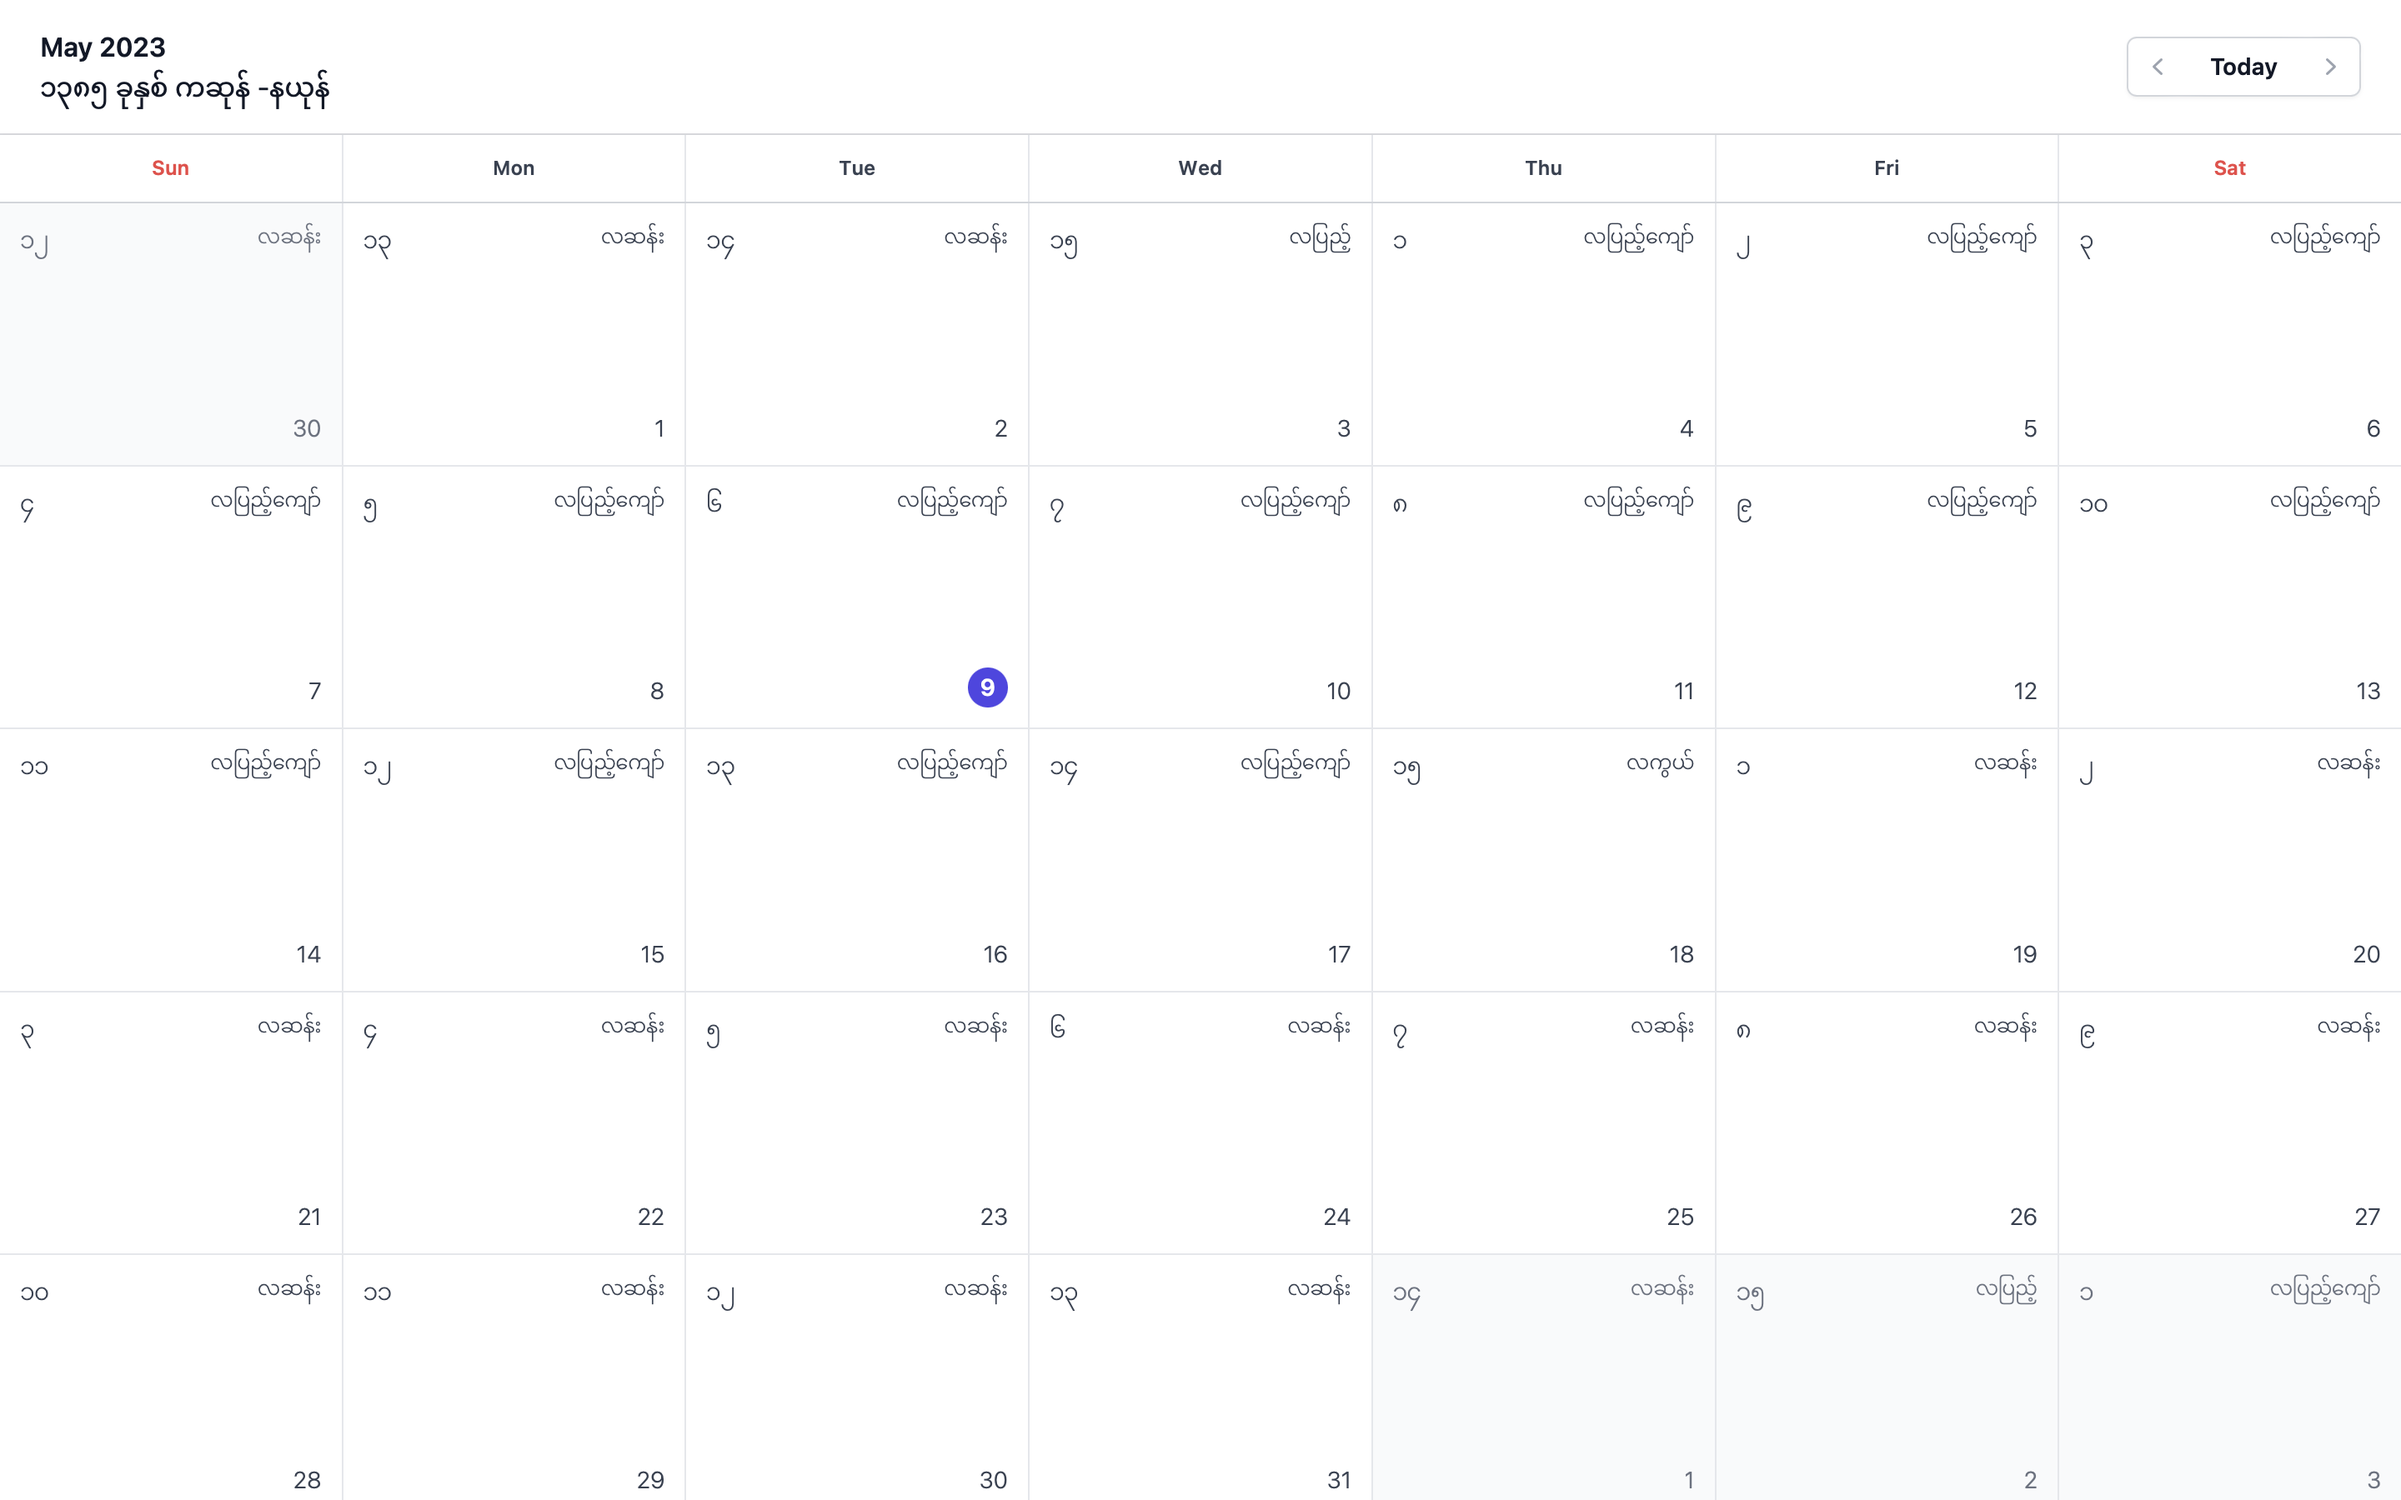
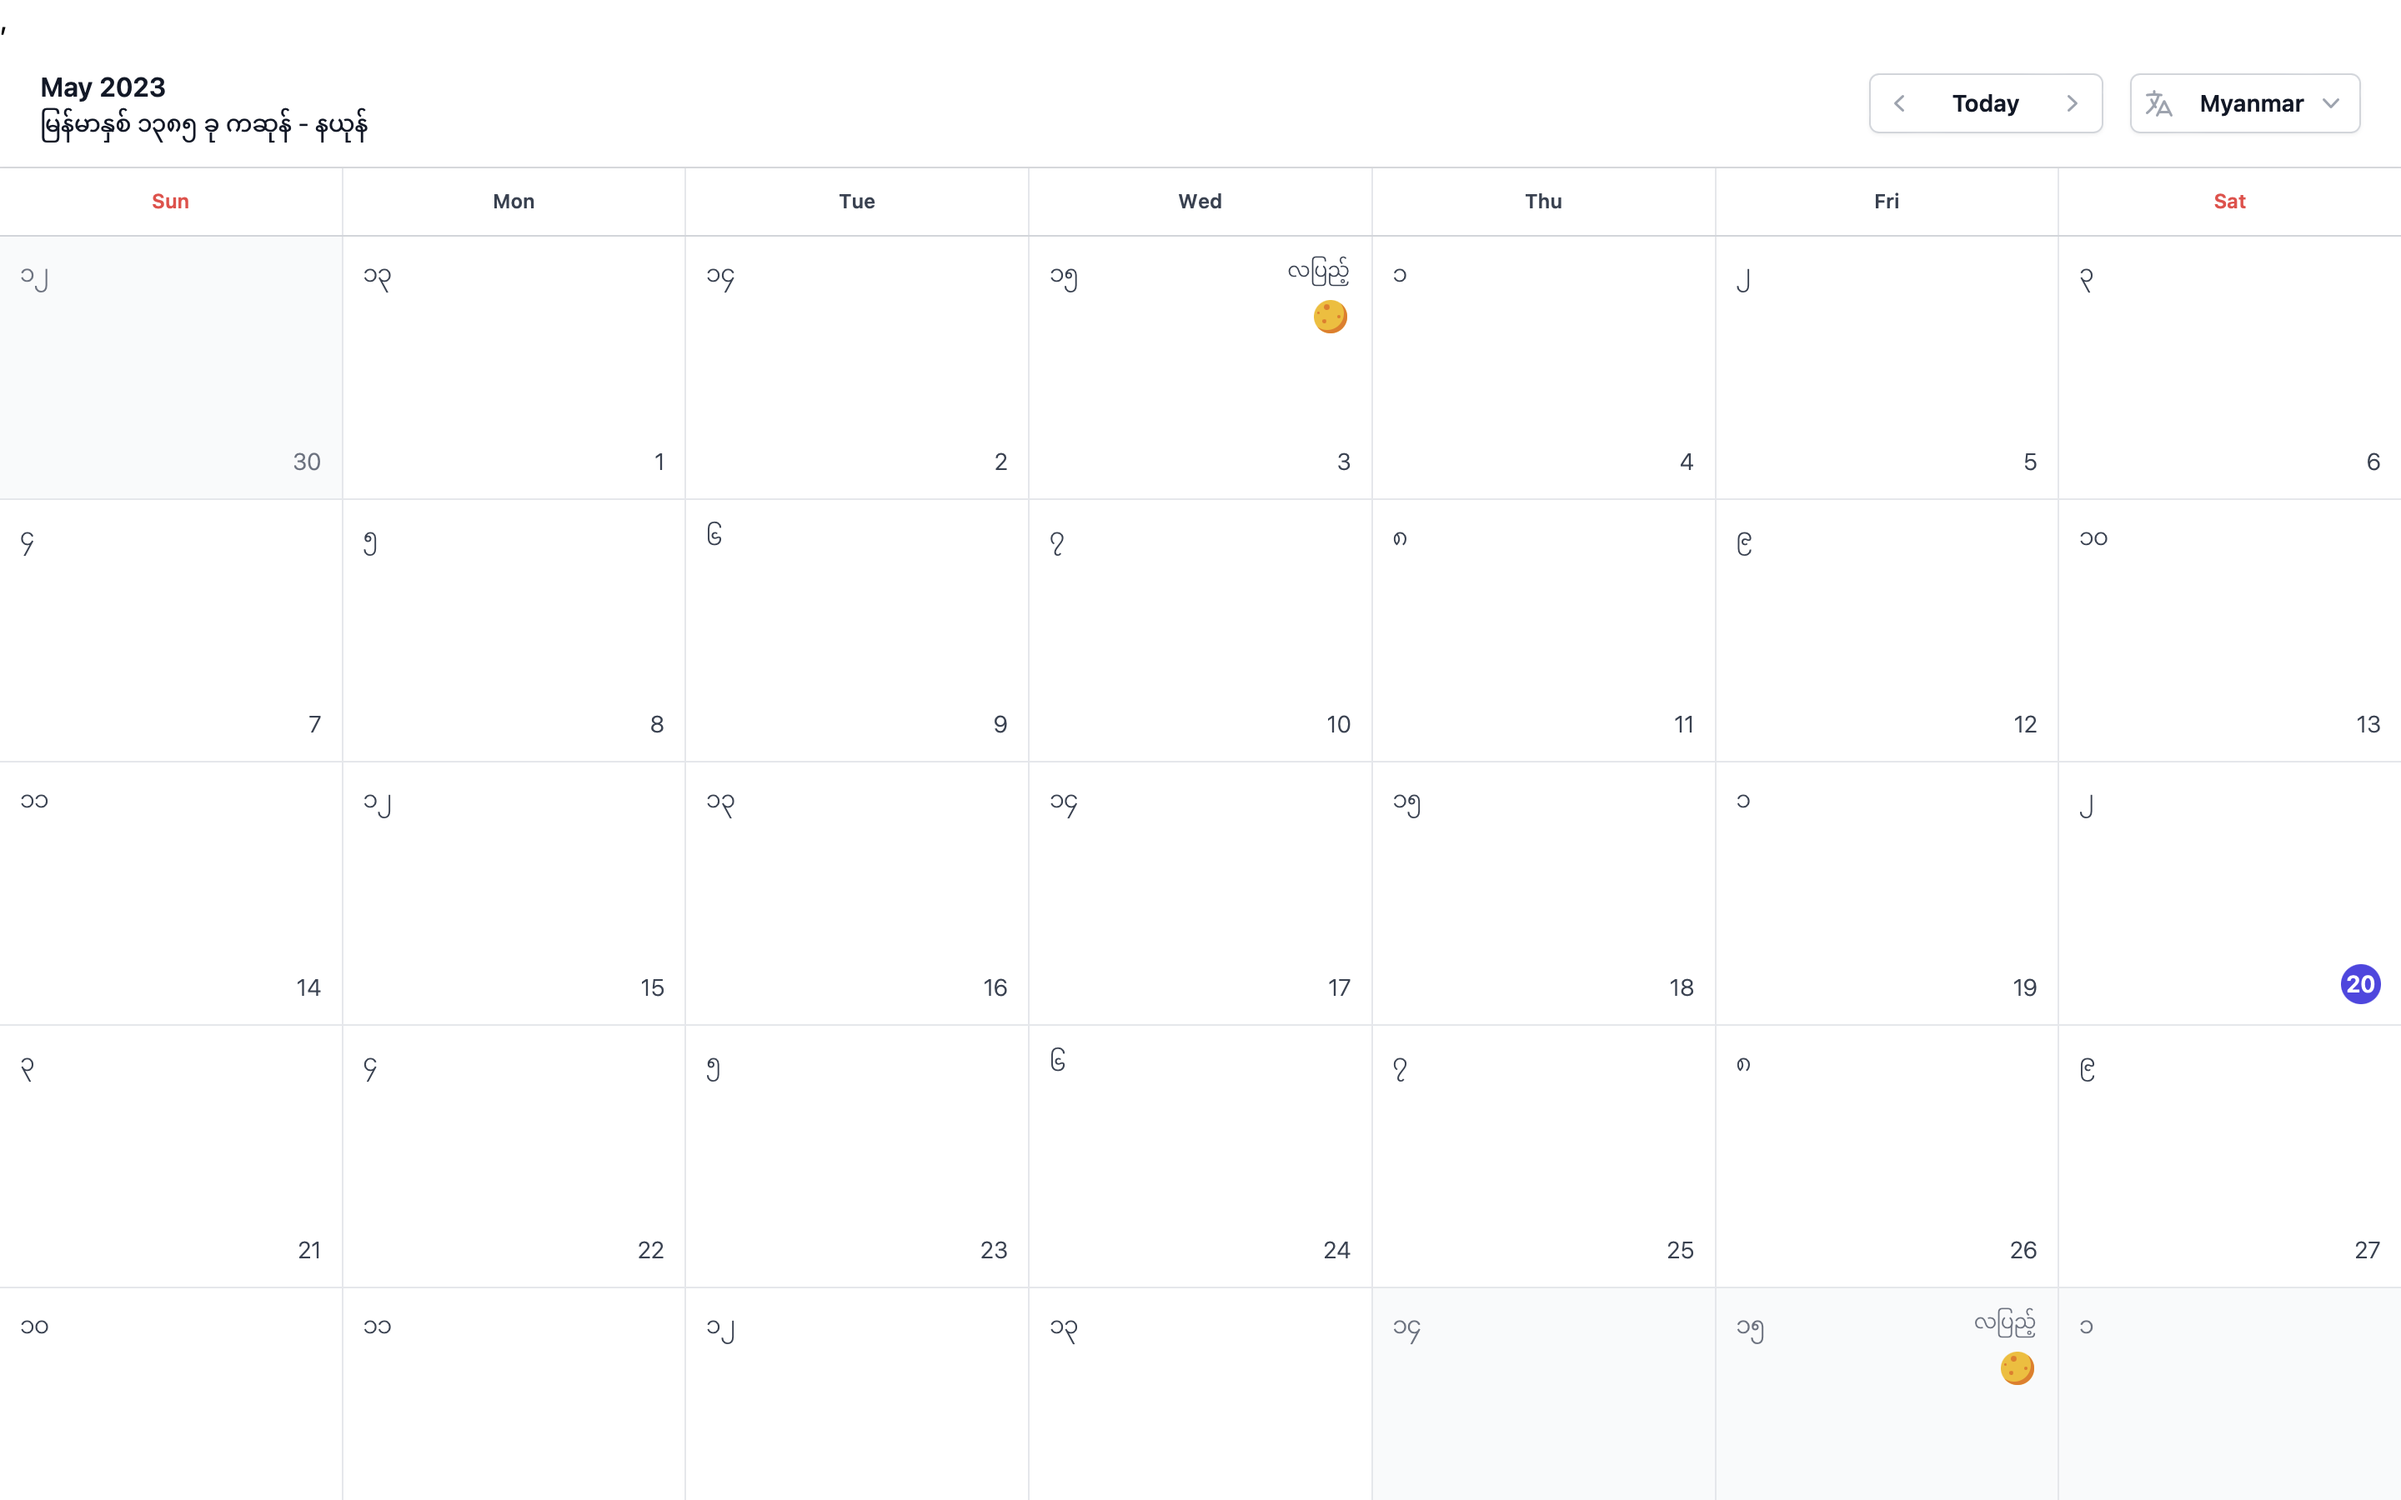
doc: update doc and description for app

diff --git a/README.md b/README.md
@@ -1,17 +1,29 @@
 # Myanmar Calendar
-
-This software is a calendar app based on the Myanmar calendar. It includes multiple language features, with the option
-to change to Myanmar, Myanmar Zawgyi, Mon, English, Tai, and S' Karen.
+**Myanmar Calendar** is a feature-rich calendar app that seamlessly combines the functionality of Gregorian and Myanmar calendars, catering to users who follow both systems. It supports multiple languages, including Myanmar, Mon, English, Tai, and Karen, ensuring a user-friendly experience for individuals from diverse linguistic backgrounds.
 
 ![Myanmar Calendar Demo Image](./exmaples/preview.png)
 
 ## Features
 
-- Multiple language support (Myanmar, Myanmar Zawgyi, Mon, English, Tai, and S' Karen)
-- Two types of calendars (Gregorianand Myanmar)
-- Displays Myanmar Month, Day, and Year
-- Cross-platform support (MacOS, Linux, and Windows)
+- Support Gregorian and Myanmar Calendar
+- Support multiple languages
+    - Myanmar
+    - Mon
+    - English
+    - Tai
+    - Karen
+- Displays Myanmar Day, Month, Year and Moon phase
 - Easy-to-use interface, similar to Google Calendar and macOS Calendar
+- SupportCross-platform
+    - MacOS
+    - Windows
+    - Linux (Debian based distros)
+
+## Screenshots
+
+### Day Detail View
+
+![Myanmar Calendar Demo Image](./exmaples/day_detail_view.png)
 
 ## Getting Started
 
